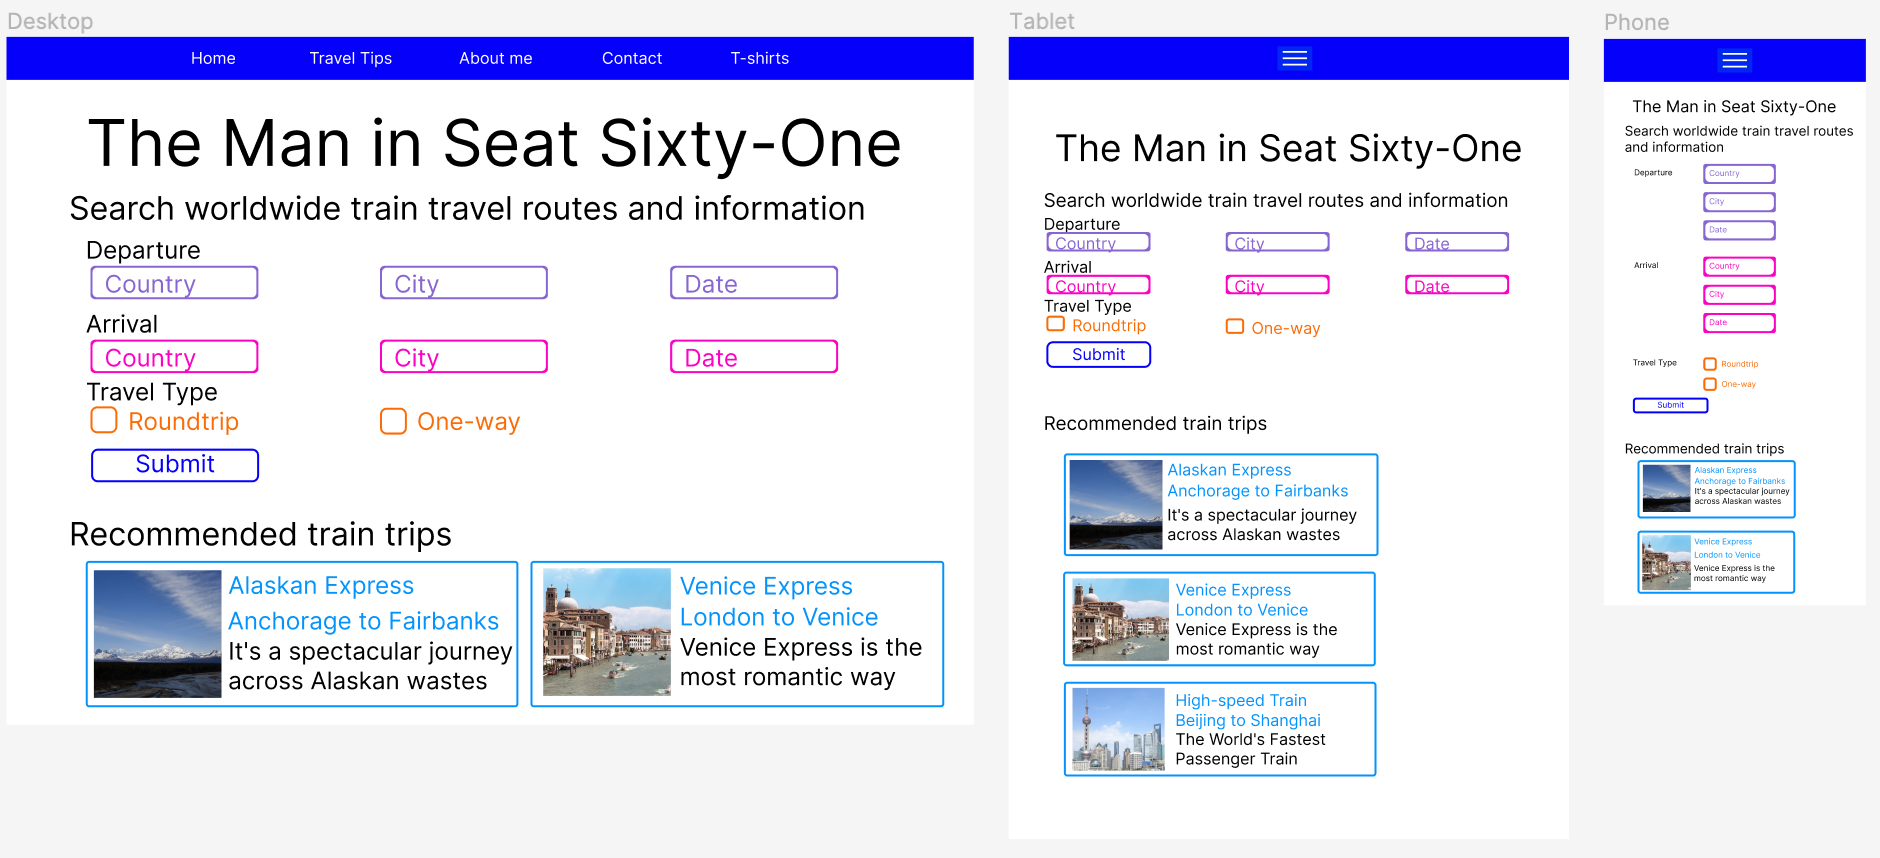
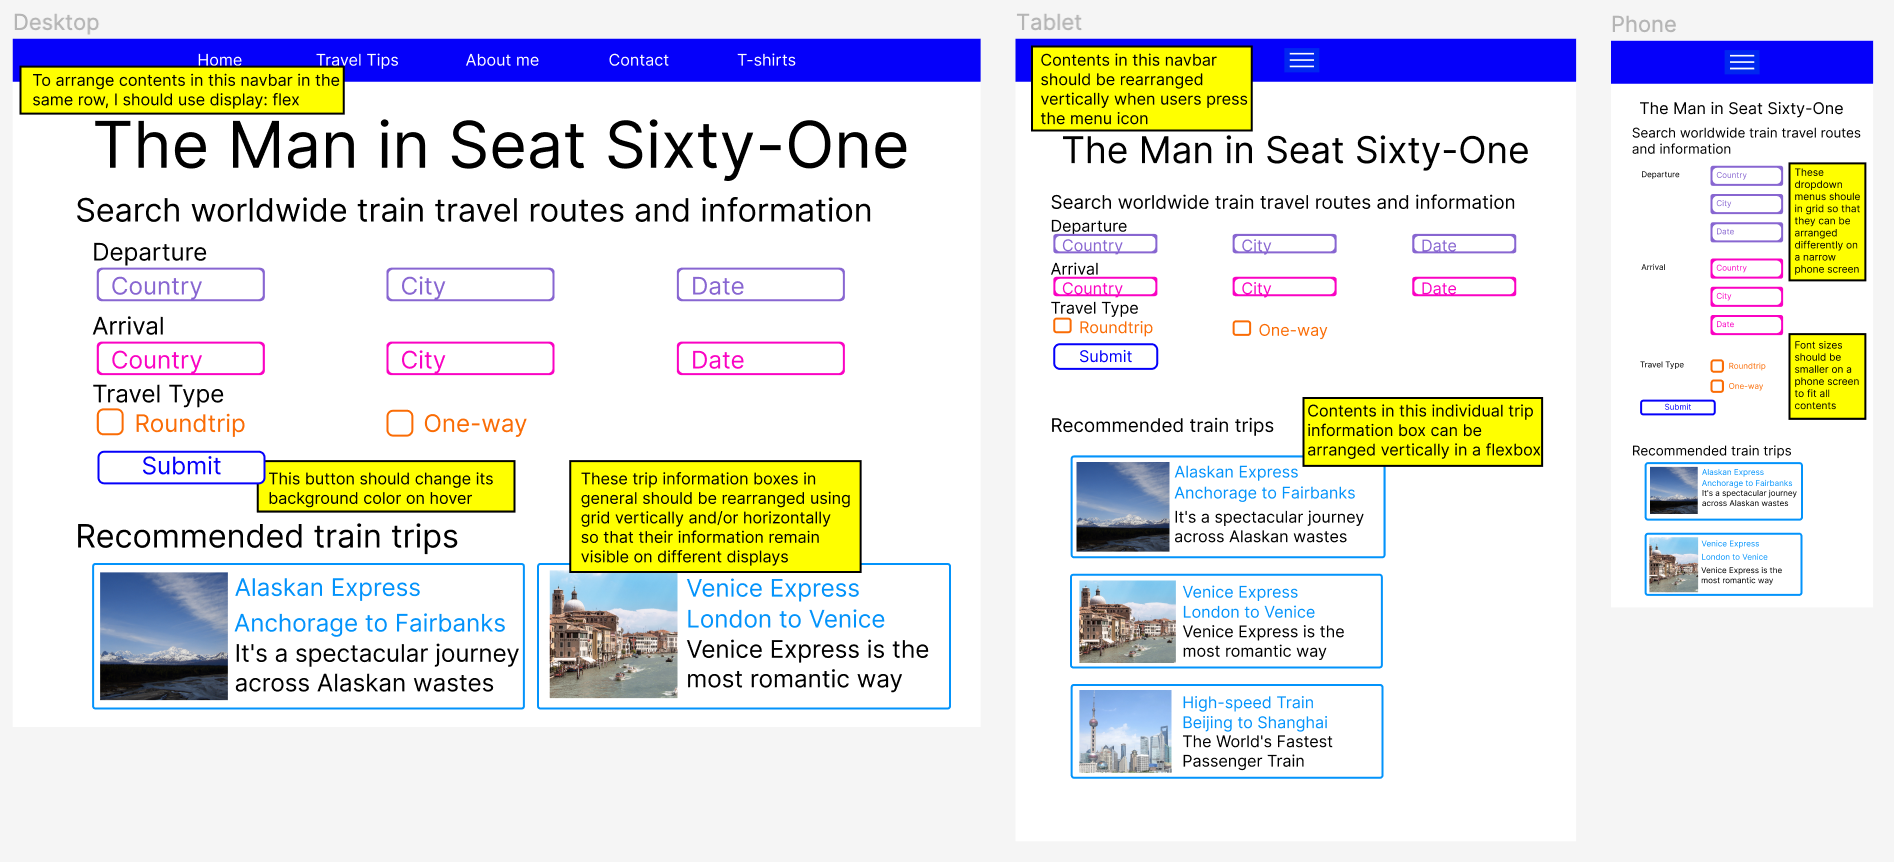
done

diff --git a/index.html b/index.html
@@ -53,28 +53,40 @@
                    </div>
                     <h3 style="font-size:1.5rem">
                         Before designing a new version of the original website, I identified problems the website had in terms of learnability, 
-                        memorability, efficiency, 
+                        memorability, usability, 
                         users' mental model of the website, and accessibility. Here are my findings.
                     </h3>
 
                     <h3 style="font-size:1.5rem">This page is not learnable, because... </h3>
                     <ul>
-                        <li>The contents in the middle of the page seems to be a subset of contents in the long window on the left-hand side of the page. For example, the long window contains more information such as “Train travel in America”, but the window in the middle doesn’t.</li>
-                        <li>It’s unclear what classifies as “Great train journeys” and how the information this section conveys is different from the ones that were already covered by other sections.</li>
-                        <li>Section titles in the “Train travel in the UK, Europe & Worldwide” sections such as “Train travel UK & Ireland” do not look like users can click them, because being directly above the dropdown menu, they merely appear to be descriptions for the menu.</li>
-                        <li>Tabs like “Buy ferry tickets” and “Book a hotel” are misleading, because they lead to pages that show recommendations about websites where people can book ferry tickets or hotels, instead of allowing them to book them without leaving this website.</li>   
-                        <li>Although there are multiple dropdown menus, users can only manipulate one menu at a time, because changing values in one of the dropdown menus takes the user to another page, without giving a chance for users to enter values in more than one dropdown menu.</li>
+                        <li>The contents in the "Train travel in the UK, Europe, and Worldwide" section 
+                            compose a subset of contents in the long window on the left-hand side of the page.</li>
+                        <li>It’s unclear what types of train travels classify as “Great train journeys” 
+                            and how the information this section conveys differs from the ones that other sections already cover.</li>
+                        <li>Tabs like “Buy ferry tickets” and “Book a hotel” in the navbar are misleading, 
+                            because they lead to pages that show recommendations about 
+                            websites where people can book ferry tickets or hotels, 
+                            instead of allowing them to book them without leaving this website.</li>   
+                        <li>Although there are multiple dropdown menus, 
+                            users can only manipulate one menu at a time, 
+                            because changing values in one of the dropdown menus takes the user to another page, 
+                            without giving a chance for users to enter values in more than one dropdown menu or modify values they entered.</li>
                     </ul>
                
                     <h3 style="font-size:1.5rem">This page is not memorable, because... </h3>
                     <ul>
-                        <li>Users may not be able to remember that if they want to find information about traveling by train in Asia specifically, they need to scroll down the page and find a section titled “Train travel in Asia” in the narrow column on the left-hand side</li>
-                        <li>Users may not remember which dropdown menu to select in the middle window if they want to search for trains leaving from a specific city, because some dropdown menus show country names, while others show city names.</li>
+                        <li>Users may not be able to remember that if they want to find information 
+                            about traveling by train in Asia specifically, 
+                            they need to scroll down the page and 
+                            find a section titled “Train travel in Asia” in the narrow column on the left-hand side</li>
+                        <li>Users may not remember which dropdown menu to select in the "Train travel in the UK, Europe, and Worldwide" section
+                            if they want to search for trains leaving from a specific city, 
+                            because some dropdown menus show country names, while others show city names.</li>
                     </ul>
 
-                    <h3 style="font-size:1.5rem">This page is not efficient, because... </h3>
+                    <h3 style="font-size:1.5rem">This page is not usable, because... </h3>
                     <ul>
-                        <li>If the users want to find trains that travel from one city to another,
+                        <li>If users want to find trains that travel from one city to another,
                              they cannot select both departure and arrival cities on the same page.</li>
                     </ul>
 
@@ -82,13 +94,25 @@
                     <ul>
                         <li>Users cannot specify arrival and departure countries or cities.</li>
                         <li>Users cannot enter dates during which they will be traveling</li>
-                        <li>Users may have the illusion that all countries listed under “Train travel worldwide” would be reachable solely by train, because upon opening the dropdown menu, they are asked to choose a country they want to search “train travel to, in, or from”. However, that is not true for island countries like Japan.</li>
+                        <li>Users may have the illusion that all countries listed under “Train travel worldwide” 
+                            would be reachable solely by train, 
+                            because upon opening the dropdown menu, 
+                            they are asked to choose a country they want to search “train travel to, in, or from”. 
+                            However, that is not true for some countries like Japan, which is an island country 
+                            that is not connected to any other countries via underwater tunnels.</li>
                     </ul>
                
                     <h3 style="font-size:1.5rem">This page may not be accessible, because... </h3>
                     <ul>
-                        <li>WebAIM WAVE pointed out low contrasts in the navbar and the middle window of the page. I agree with this problem, because the white text that the website used on the light gray navbar and the bright picture in the middle window doesn’t stand out, which may be problematic to visually imparied people.</li>
-                        <li>WebAIM WAVE also pointed out redundant links for train travels in Azerbaijan and Armenia, which are in the left column. I agree with this problem too, because since clicking “Azerbaijan” and “Armenia” both lead to the same page titled “How to travel by train in Georgia, Armenia, Azerbaijan”, it’s better to group these three countries into one in a menu item.</li>
+                        <li>WebAIM WAVE pointed out low contrasts in the navbar and the middle window of the page. 
+                            I agree with this problem, because the white text that the website used 
+                            on the light gray navbar and the bright picture in the middle window doesn’t stand out, 
+                            which may be problematic to visually imparied people.</li>
+                        <li>WebAIM WAVE also pointed out redundant links for train travels in Azerbaijan and Armenia, 
+                            which are in the left column. I agree with this problem too, 
+                            because since clicking “Azerbaijan” and “Armenia” 
+                            both lead to the same page titled “How to travel by train in Georgia, Armenia, Azerbaijan”. 
+                            It’s better to group these three countries into one menu item.</li>
                     </ul>
                 </div>
             </div>
@@ -103,7 +127,7 @@
                     <h1 style = "font-size: 2rem">II. Visual Redesign</h1>
                 </div>
                 
-                <div class = "description">
+                <div class = "description description-prototype">
                     <h2 style="font-size:1.5rem">Low-fidelity Wireframing</h2>
                     <h3 style="font-size:1.5rem">Based on my findings from the previous part, I created annotated wireframes for desktop, tablet, and phone versions of the redesigned 
                         website. Wireframes show rough ideas about what the website may look like. In each wireframe, please refer to color-coded 
@@ -125,10 +149,11 @@
                     </div>
                 </div>
 
-                <div class = "description">
+                <div class = "description description-prototype-hifi">
                     <h2 style="font-size:1.5rem">High-Fidelity Prototyping</h2>
                     <h3 style="font-size:1.5rem">Based on wireframes, I created high-fidelity models of the webpage's desktop, tablet, and phone versions. 
-                        I assigned specific colors and shapes to the website's components and used these models when I programmed the website.</h3>
+                        I assigned specific colors and shapes to the website's components and used these models when I programmed the website. 
+                        Please note that annotations indicating webpage implementation details are in <b>yellow boxes</b>.</h3>
                     <div class = "row justify-content-center content">
                         <img src = "img/hifi.png" style = "width:50em"> 
                     </div>
@@ -141,7 +166,9 @@
             <div class = "section-title" id = "responsive-redesign">
                 <h1 style = "font-size: 2rem">III. Responsive Redesign</h1>
                 <div class = "description">
-                    I programmed the final version of the webpage based on the high-fidelity prototypes I made. <a href = "redesigned.html">Click here to view the redesigned webpage!</a>
+                   <p style="font-size:1.5rem"> I programmed the final version of the webpage based on the high-fidelity prototypes I made. 
+                    This project helped me become more familiar with the process of redesigning a website and learn aspects I need to consider when 
+                    designing a learnable, memorable, useful, and accessible website. <a href = "redesigned.html">Click here to view the redesigned webpage!</a></p>
                 </div>
                 
                 <div class = "row justify-content-center content">

diff --git a/css/style.css b/css/style.css
@@ -22,6 +22,9 @@ body{
     flex-shrink: 2;
     padding-left: 5rem;
     padding-right: 5rem;
+}
+
+.description-prototype-hifi{
     padding-top: 5rem;
 }
 
